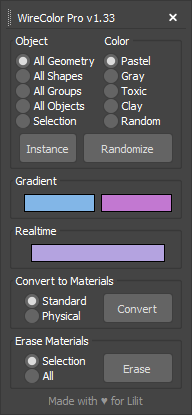
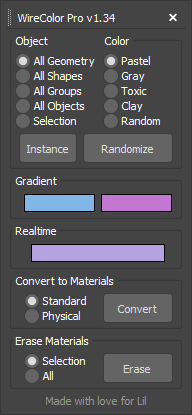
u

Changed region(s): [[0.2188, 0.9542, 0.7812, 0.9831], [0.5625, 0.0289, 0.625, 0.0578]]

diff --git a/README.md b/README.md
@@ -136,7 +136,7 @@ WireColor Pro is available in two formats to suit different workflows:
 
 ## 📝 Changelog
 
-### Version 1.33 | December 4, 2025
+### Version 1.34 | December 4, 2025
 - Complete code refactoring and optimization
 - Comprehensive error handling for all operations
 - Enhanced user feedback with success/error messages
@@ -199,7 +199,7 @@ Special thanks to:
 - **Nintendo**
 - **Marcello Pattarin**
 - **Sergey Gromoff**
-- **Lilit**
+- **Lil**
 
 ## 📄 License
 
@@ -225,7 +225,7 @@ FITNESS FOR A PARTICULAR PURPOSE AND NONINFRINGEMENT.
 
 ## 📥 Download
 
-**Latest Release (v1.33)** - December 4, 2025
+**Latest Release (v1.34)** - December 4, 2025
 
 Choose the version that best fits your workflow:
 
@@ -266,7 +266,7 @@ Your feedback helps make WireColor Pro better! If you have suggestions, question
 
 <div align="center">
 
-**Made with ♥ for Lilit**
+**Made with love for Lil**
 
 [Back to Top](#wirecolor-pro)
 
